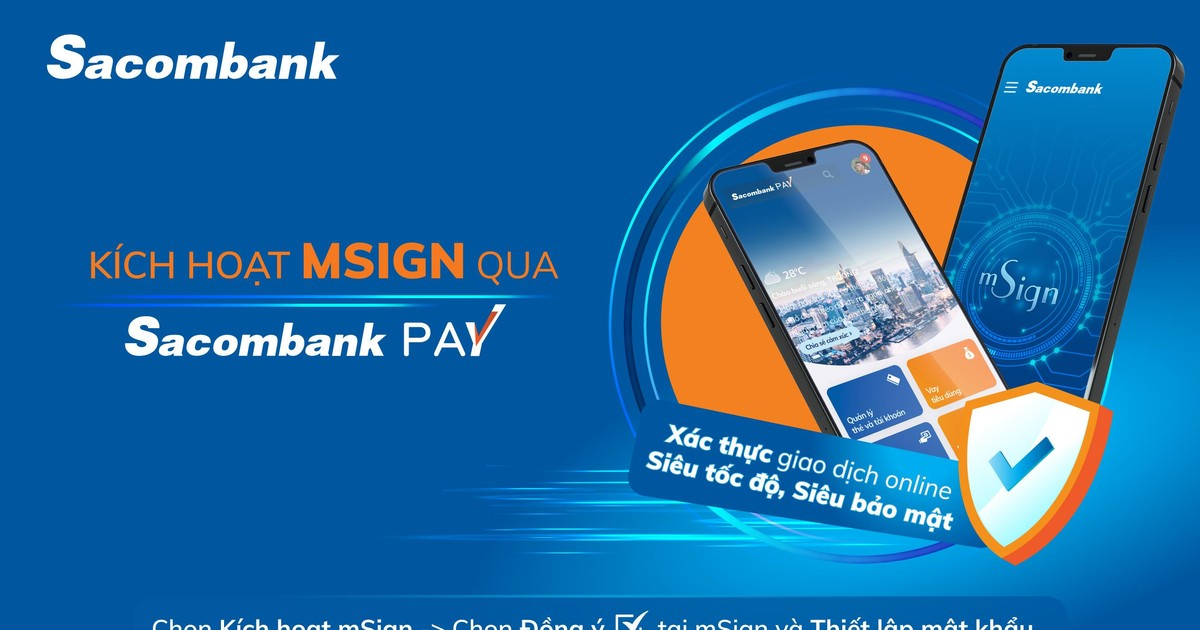
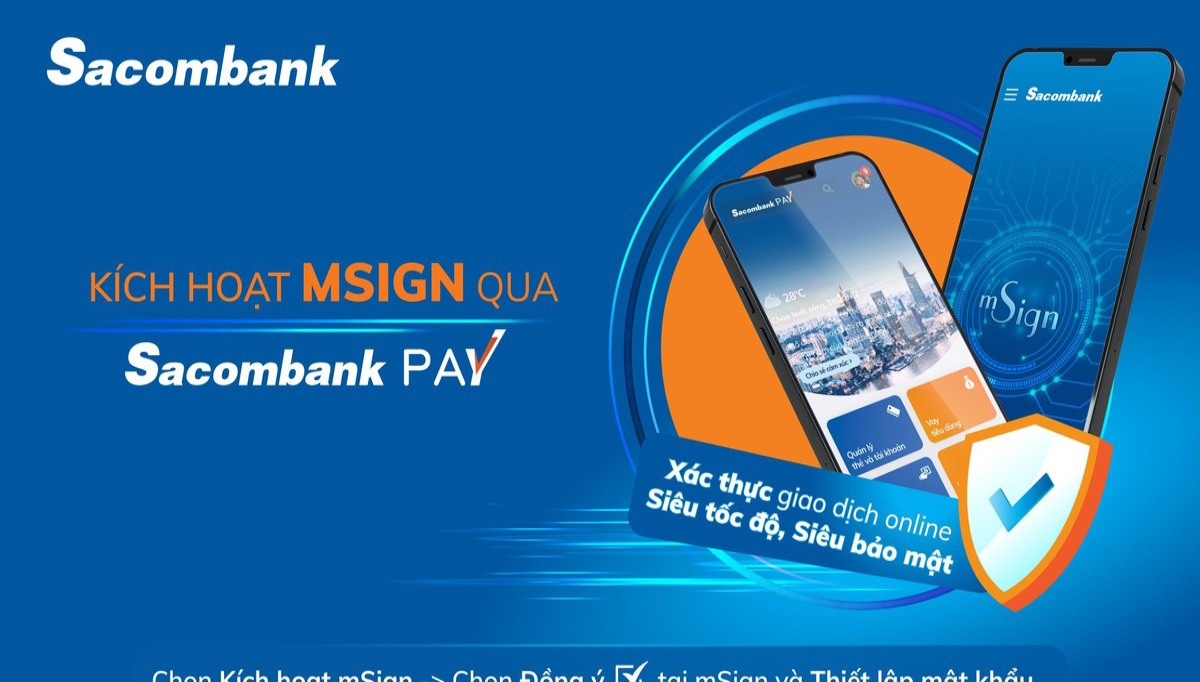
update code

Changed region(s): [[0.8325, 0.1206, 0.8942, 0.1508], [0.6783, 0.5429, 0.7092, 0.573], [0.2467, 0.5429, 0.2775, 0.573]]

diff --git a/src/index.css b/src/index.css
@@ -32,32 +32,13 @@
   background-color: var(--blue-2);
 }
 
-.menu-footer:first-child {
-  padding-left: 0;
+.swiper-slide img {
+  display: block;
+  width: 100%;
+  height: 100%;
 }
 
-.menu-footer:last-child {
-  border-right: none
-}
-
-.btn-footer {
-  padding: 8px;
-  border: 1px solid transparent;
-  transition: all 0.3s linear;
-  border-radius: 12px;
-}
-
-.btn-footer:hover {
-  background: #ffffff;
-  border: 1px solid #000000;
-  color: #0071bb;
-}
-
-.social-footer:hover {
-  filter: brightness(0) invert(1);
-  -webkit-filter: brightness(0) invert(1);
-}
-
+/* Header */
 .hamburger {
   position: relative;
   height: 24px;
@@ -85,14 +66,32 @@
   width: 100%;
 }
 
-
-
-.swiper-slide img {
-  display: block;
-  width: 100%;
-  height: 100%;
+/* Footer */
+.menu-footer:first-child {
+  padding-left: 0;
 }
 
+.menu-footer:last-child {
+  border-right: none
+}
+
+.btn-footer {
+  padding: 8px;
+  border: 1px solid transparent;
+  transition: all 0.3s linear;
+  border-radius: 12px;
+}
+
+.btn-footer:hover {
+  background: #ffffff;
+  border: 1px solid #000000;
+  color: #0071bb;
+}
+
+.social-footer:hover {
+  filter: brightness(0) invert(1);
+  -webkit-filter: brightness(0) invert(1);
+}
 
 
 /* Responsive */

diff --git a/src/components/Slider.tsx b/src/components/Slider.tsx
@@ -49,7 +49,7 @@ function Slider() {
         swipeable
       >
         {SLIDERIMG.map((item, index) => (
-          <img key={index} src={item} className='object-cover w-full h-full max-h-[200px] md:max-h-[320px] lg:max-h-[660px]' />
+          <img key={index} src={item} className='object-cover w-full h-full' />
         ))}
       </Carousel>
     </section>

diff --git a/src/constants/index.ts b/src/constants/index.ts
@@ -9,7 +9,7 @@ export const MENU = [
 ];
 
 export const SLIDERIMG = [
-  "/images/banner-1.png",
+  "/images/banner-1.jpg",
   "/images/slider-1.jpg",
   "/images/slider-2.jpg",
 ];
